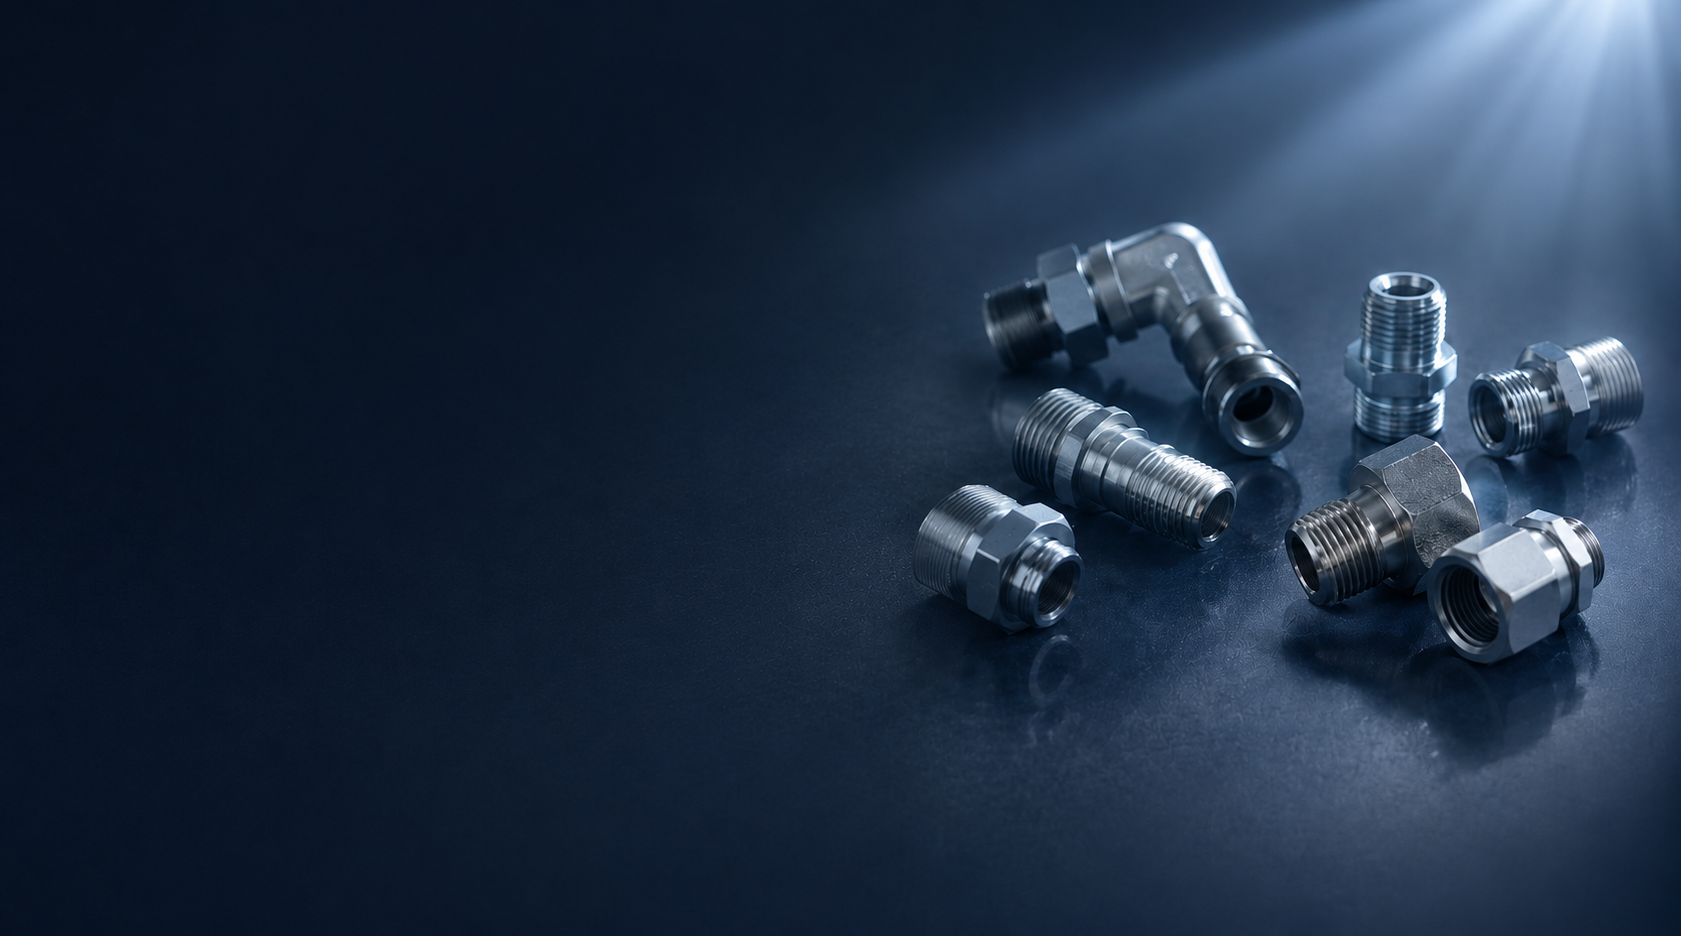
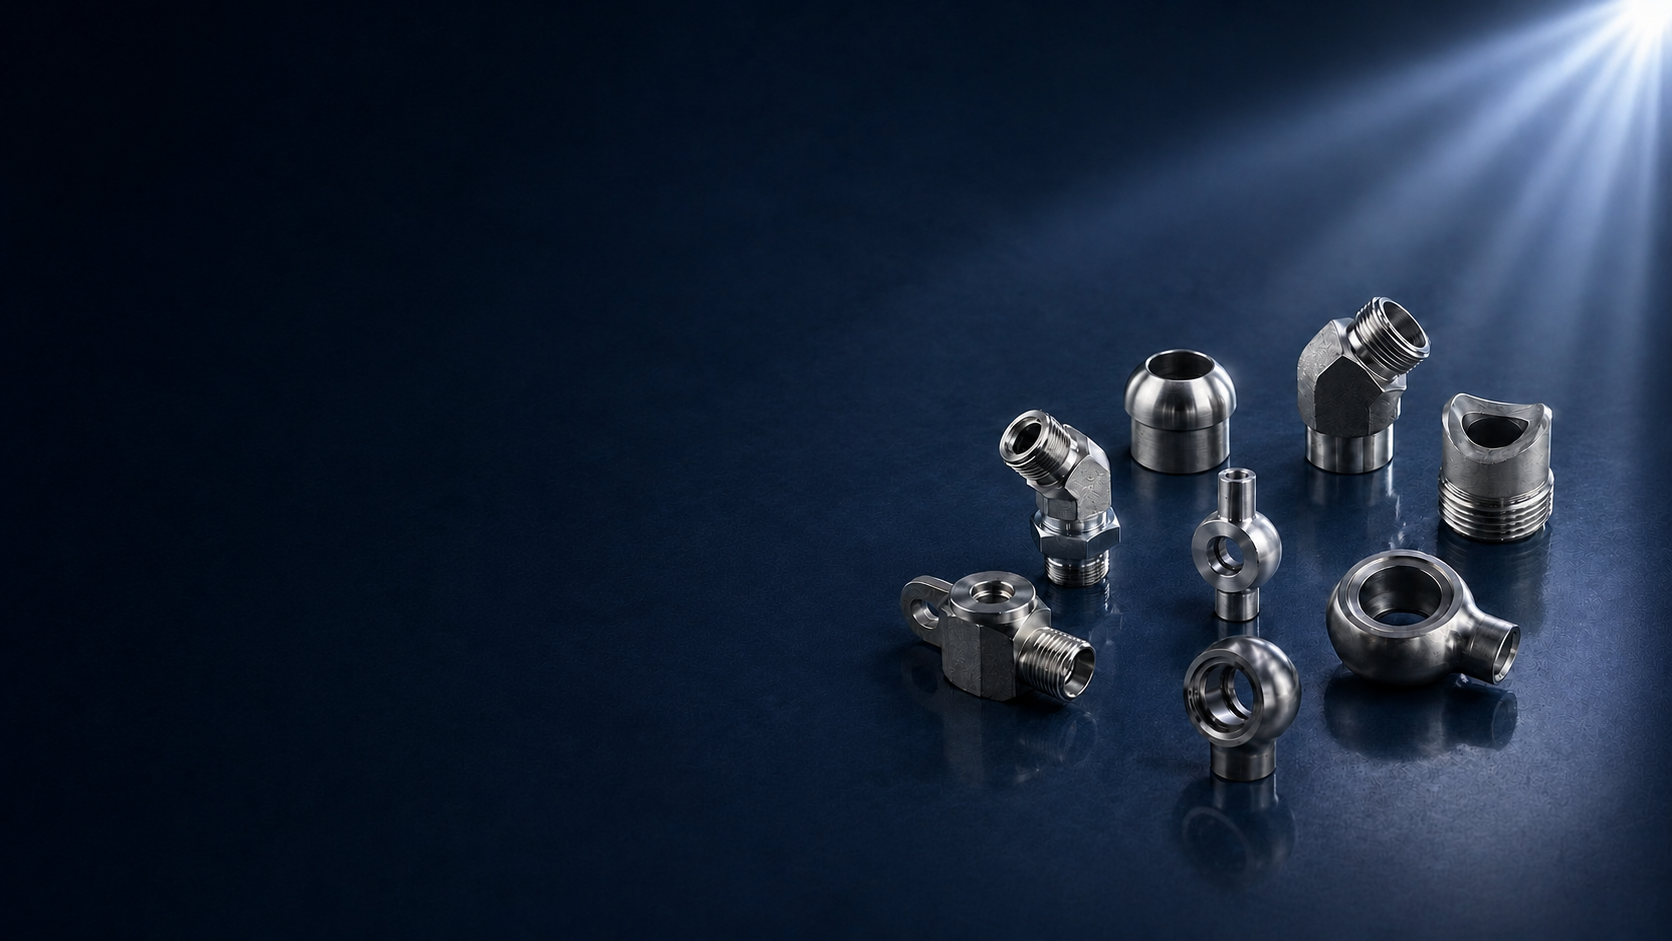
V2.2: Replace hero background with new product photo, shift text left
- Replace hero-bg.jpg with new hydraulic fittings photo
- Shift hero content left by 4cm (151px) using transform: translateX(-151px)
- Increase left margin to -270px for proper positioning
- Narrow hero-content max-width to 560px
- Adjust overlay gradient for better text readability on left side
- Reduce stat-item padding for compact single-line layout

Changed region(s): [[0.4976, 0.0, 1.0, 0.9605]]

diff --git a/css/style.css b/css/style.css
@@ -222,13 +222,15 @@ ul { list-style: none; }
 .hero-overlay {
     position: absolute;
     inset: 0;
-    background: linear-gradient(90deg, rgba(10,22,40,0.85) 0%, rgba(10,22,40,0.5) 50%, rgba(10,22,40,0.1) 100%);
+    background: linear-gradient(90deg, rgba(10,22,40,0.92) 0%, rgba(10,22,40,0.7) 35%, rgba(10,22,40,0.2) 60%, transparent 100%);
 }
 .hero-content {
     position: relative;
     z-index: 1;
-    max-width: 700px;
-    padding: 80px 0;
+    max-width: 560px;
+    padding: 40px 0 80px;
+    margin-left: -270px;
+    transform: translateX(-151px);
 }
 .hero-badge {
     display: inline-block;
@@ -288,8 +290,8 @@ ul { list-style: none; }
 
 /* Hero Stats */
 .hero-stats { display: flex; gap: 0; align-items: center; }
-.stat-item { text-align: center; padding: 0 28px; }
-.stat-number { font-size: 36px; font-weight: 800; color: #fff; }
+.stat-item { text-align: center; padding: 0 16px; }
+.stat-number { font-size: 32px; font-weight: 800; color: #fff; }
 .stat-suffix { font-size: 24px; font-weight: 700; color: var(--accent); }
 .stat-label { display: block; font-size: 13px; color: rgba(255,255,255,0.6); margin-top: 4px; }
 .stat-divider { width: 1px; height: 40px; background: rgba(255,255,255,0.15); }